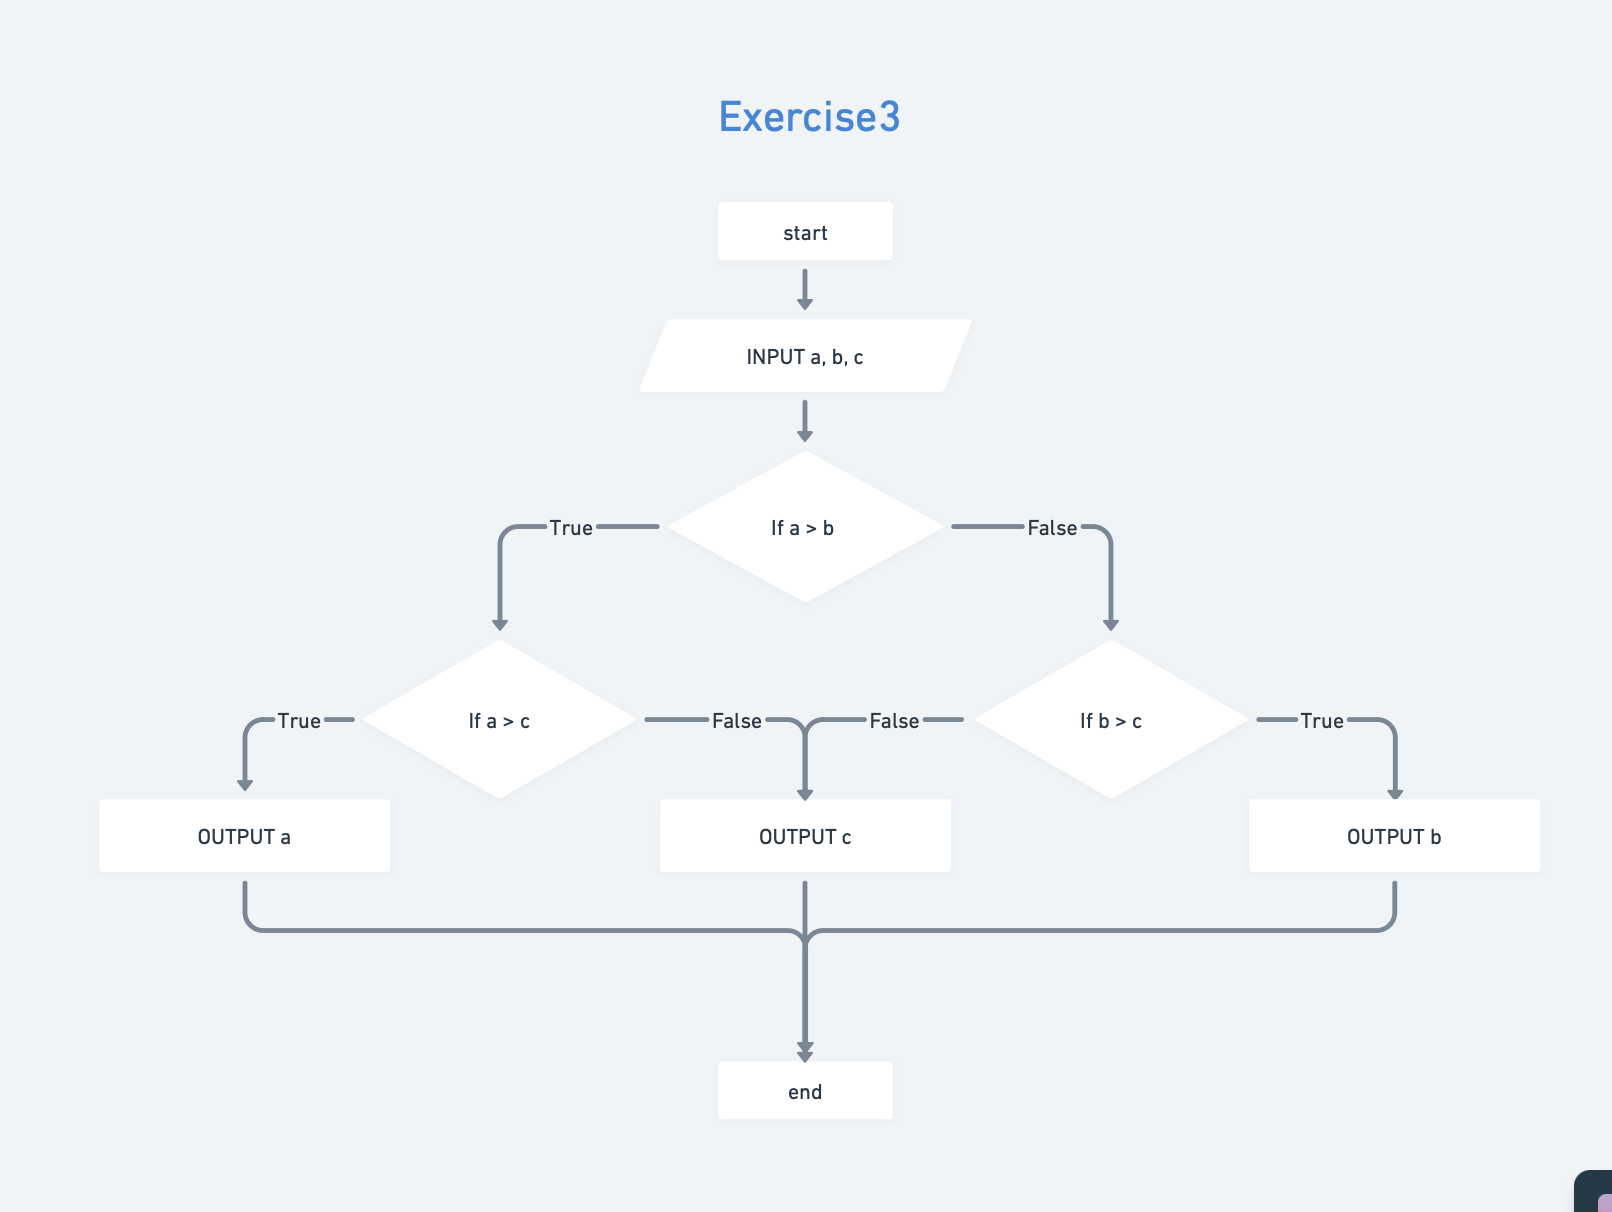
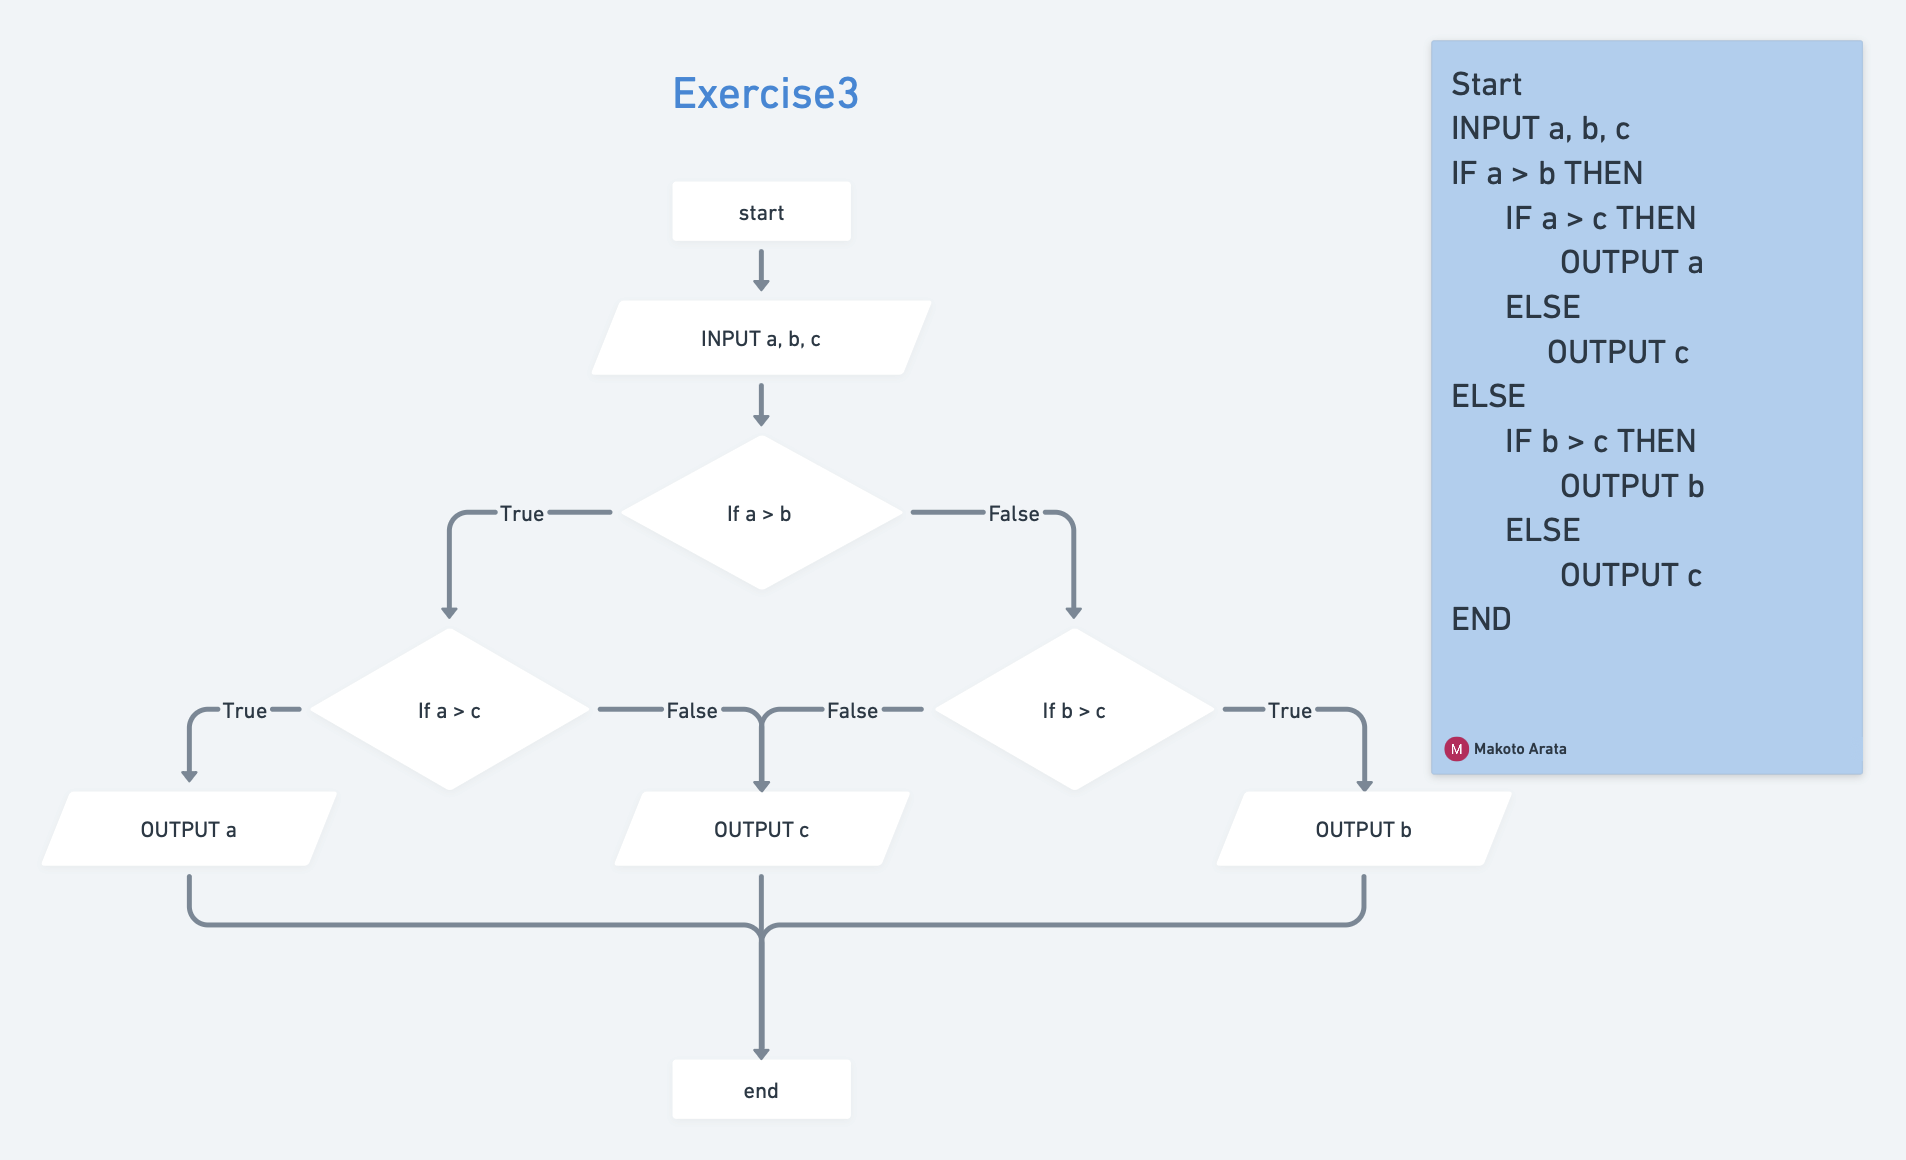
1st commit

diff --git a/README.md b/README.md
@@ -22,11 +22,7 @@ Pseudocode:
 
 ### _Answer_
 ![Exercise1](flowcharts/Exercise1.png)
-Start　  
-Input ft  
-cm ← ft * 30  
-Output cm  
-End
+
 
 ## Exercise 2
 
@@ -40,12 +36,7 @@ Pseudocode:
 
 ### _Answer_
 ![Exercise2](flowcharts/Exercise2.png)
-Start　  
-Input the width (W)
-Input the length (L)  
-A ← W * L  
-Output A  
-End
+
 
 ## Exercise 3
 
@@ -54,13 +45,15 @@ Write an algorithm and draw a flowchart that will read three numbers and prints 
 > Given that the three numbers are not equal to each other)
 
 ### _Answer_
+![Exercise3](flowcharts/Exercise3.png)
+
 
 ## Exercise 4
 
 Write an algorithm and draw a flowchart to check the three number inputs whether a triangle is possible or not.
 
 ### _Answer_
-
+![Exercise4](flowcharts/Exercise4.png)
 ## Exercise 5
 
 Draw the flowchart for the following:
@@ -77,3 +70,4 @@ Display the grades as per the table given below:
 | Less than 40%                 | No Grade |
 
 ### _Answer_
+![Exercise5](flowcharts/Exercise5.png)
